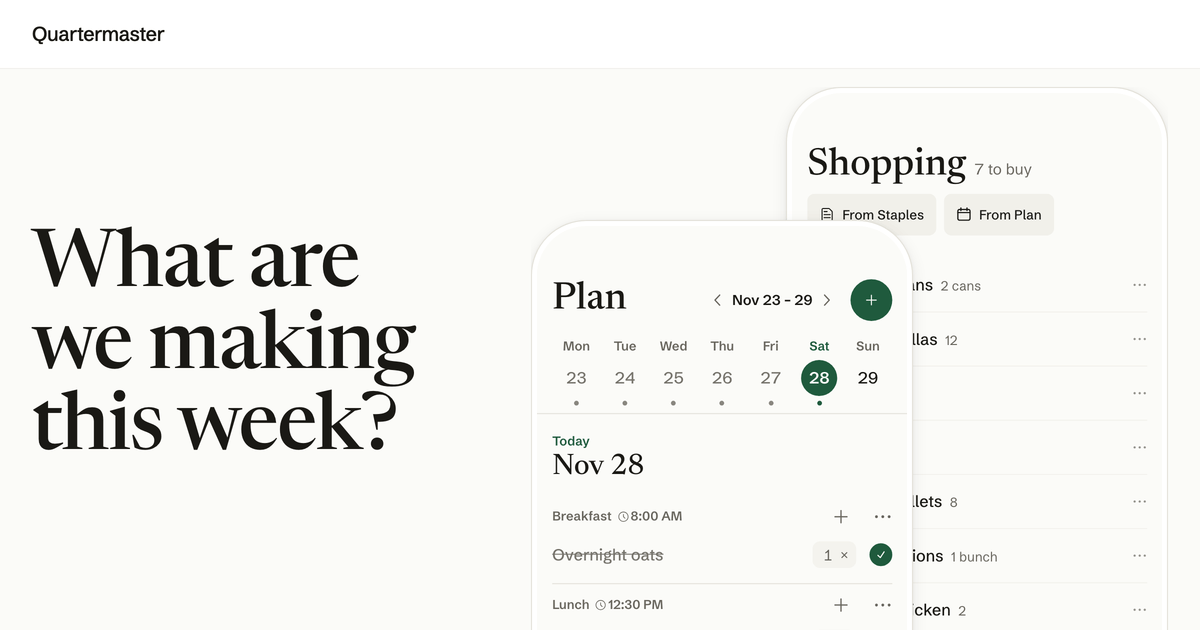
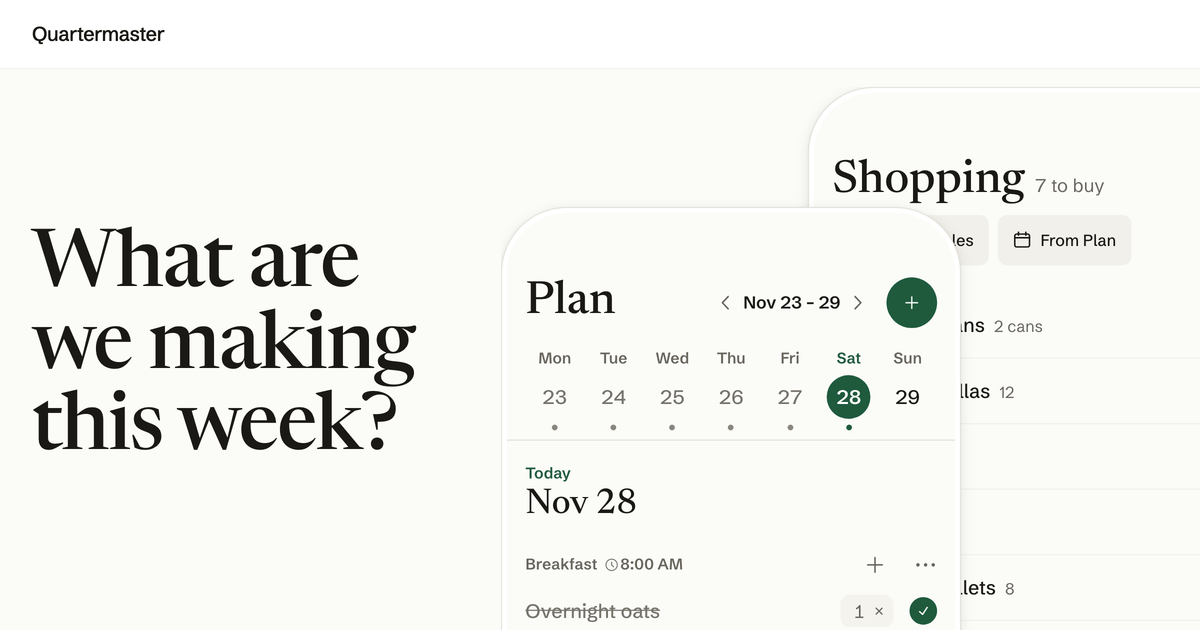
Draw the link preview's phones large enough for their small labels
At 1.15 of a phone's size a Meal's label and an item's amount are still about
6.5px when a chat app shows the card 500px wide. Shopping runs off the right
edge to make the room, and the Plan stands a little higher against it so its
first Meal shows. The script still stops when the Plan would leave the
picture's right edge.

diff --git a/other/generate-og-image.ts b/other/generate-og-image.ts
@@ -10,10 +10,11 @@
  * two phones, Plan on today in front of Shopping. The subhead, the buttons
  * and the header's Log in are hidden because nobody can read or tap them in
  * a preview card. The phones are drawn larger than the page draws them, so
- * their text still reads when a chat app shows the card 500px wide, and they
- * run off the bottom edge as the hero cuts them. The page is laid out 1200
- * CSS px wide, shot at twice the output size and scaled down, so the text
- * stays sharp. The Plan shows the day the script runs.
+ * their text still reads when a chat app shows the card 500px wide. They run
+ * off the bottom edge as the hero cuts them, and Shopping off the right one.
+ * The page is laid out 1200 CSS px wide, shot at twice the output size and
+ * scaled down, so the text stays sharp. The Plan shows the day the script
+ * runs.
  * The output is fingerprinted by the build, so a new image gets a new URL and
  * link previews pick it up.
  */
@@ -30,12 +31,17 @@ const [width, height] = [1200, 630]
 const composition = {
 	/** The headline's size. Its lines must break as the page's do. */
 	headlinePx: 80,
-	/** A phone's size against the 390px screen it draws. */
-	phoneScale: 0.95,
+	/** A phone's size against the 390px screen it draws. From 1.15 the
+	 *  small labels are still 6.5px in a card shown 500px wide. */
+	phoneScale: 1.15,
 	/** Whether Shopping stands behind the Plan. */
 	shopping: true,
 	/** From the header's hairline to the top of the phones. */
 	phonesTopPx: 18,
+	/** How far the Plan stands below Shopping's top. */
+	planDropPx: 120,
+	/** How much of Shopping runs off the right edge. */
+	shoppingOffRightPx: 100,
 }
 
 const browser = await chromium.launch()
@@ -132,7 +138,10 @@ try {
 		pair.style.setProperty('--phone-scale', String(composition.phoneScale))
 		pair.style.alignSelf = 'start'
 		pair.style.marginTop = `${composition.phonesTopPx}px`
-		if (!composition.shopping) {
+		if (composition.shopping) {
+			plan.style.top = `${composition.planDropPx}px`
+			pair.style.marginRight = `-${composition.shoppingOffRightPx}px`
+		} else {
 			shopping.style.display = 'none'
 			plan.style.top = '0'
 			pair.style.width = 'calc(var(--phone-scale) * 390px + 12px)'
@@ -148,15 +157,19 @@ try {
 				`The headline breaks as "${lines()}" where the page has "${pageLines}"; change headlinePx or phoneScale.`,
 			)
 		}
-		const edge = window.innerHeight
+		// Both phones run off the bottom edge. The Plan is whole from side to
+		// side; only Shopping may pass the right edge.
 		const shown = composition.shopping ? [shopping, plan] : [plan]
 		for (const frame of shown) {
 			const box = frame.getBoundingClientRect()
-			if (box.bottom < edge || box.top < 0 || box.right > window.innerWidth) {
+			if (box.bottom < window.innerHeight || box.top < 0) {
 				throw new Error(
 					'A phone no longer runs off the bottom edge alone; change phoneScale or phonesTopPx.',
 				)
 			}
+		}
+		if (plan.getBoundingClientRect().right > window.innerWidth) {
+			throw new Error('The Plan runs off the right edge.')
 		}
 		if (
 			heading.getBoundingClientRect().right > pair.getBoundingClientRect().left
